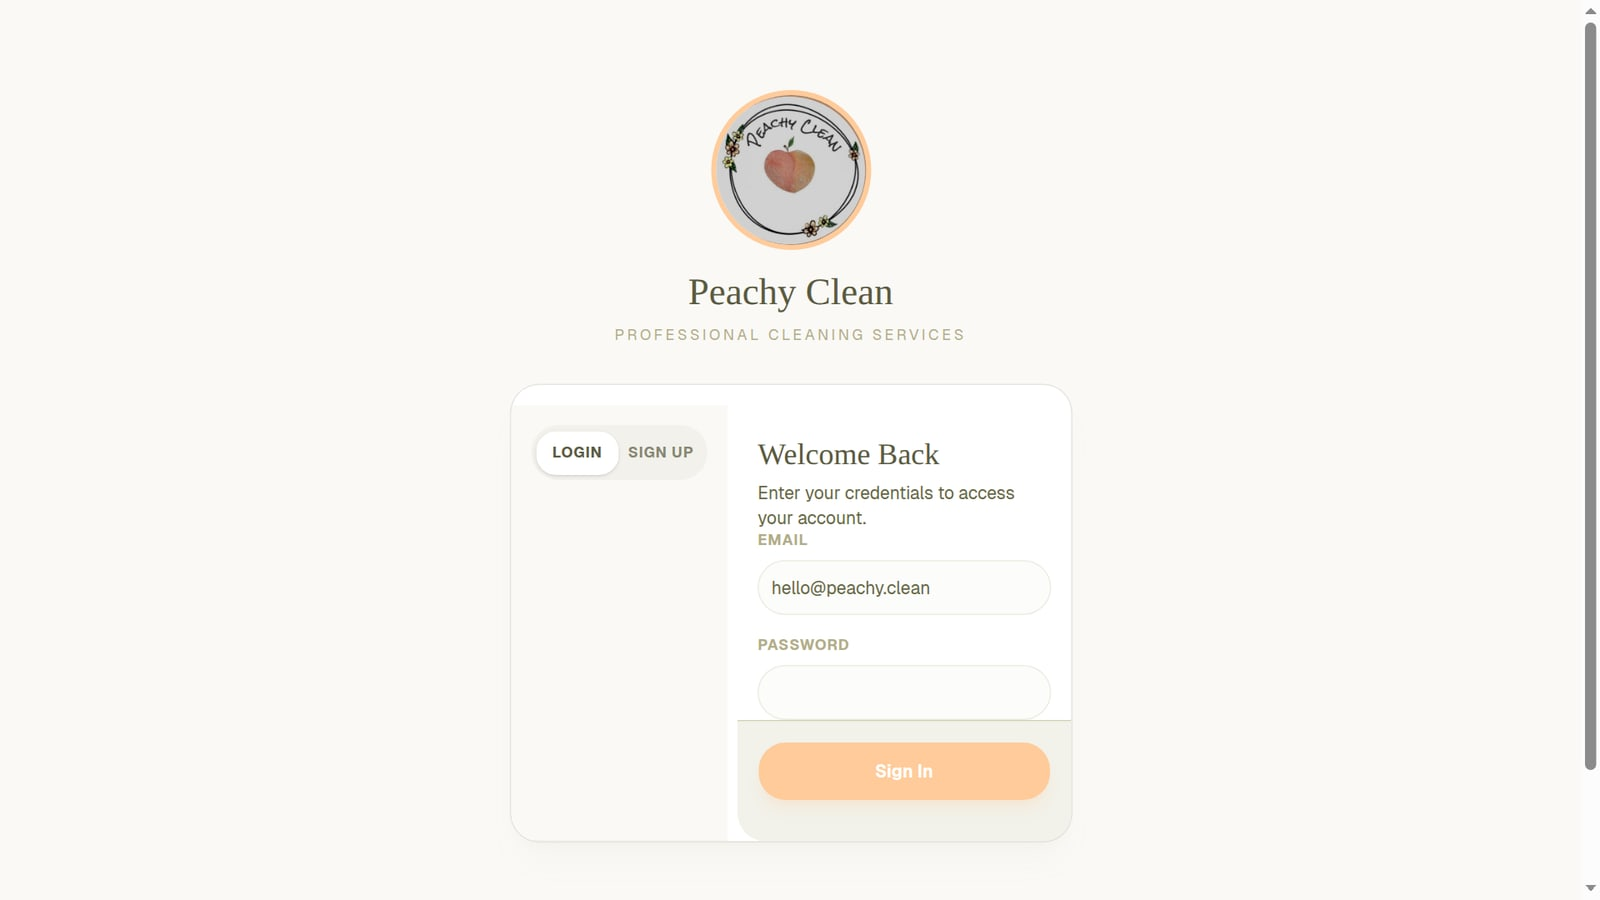
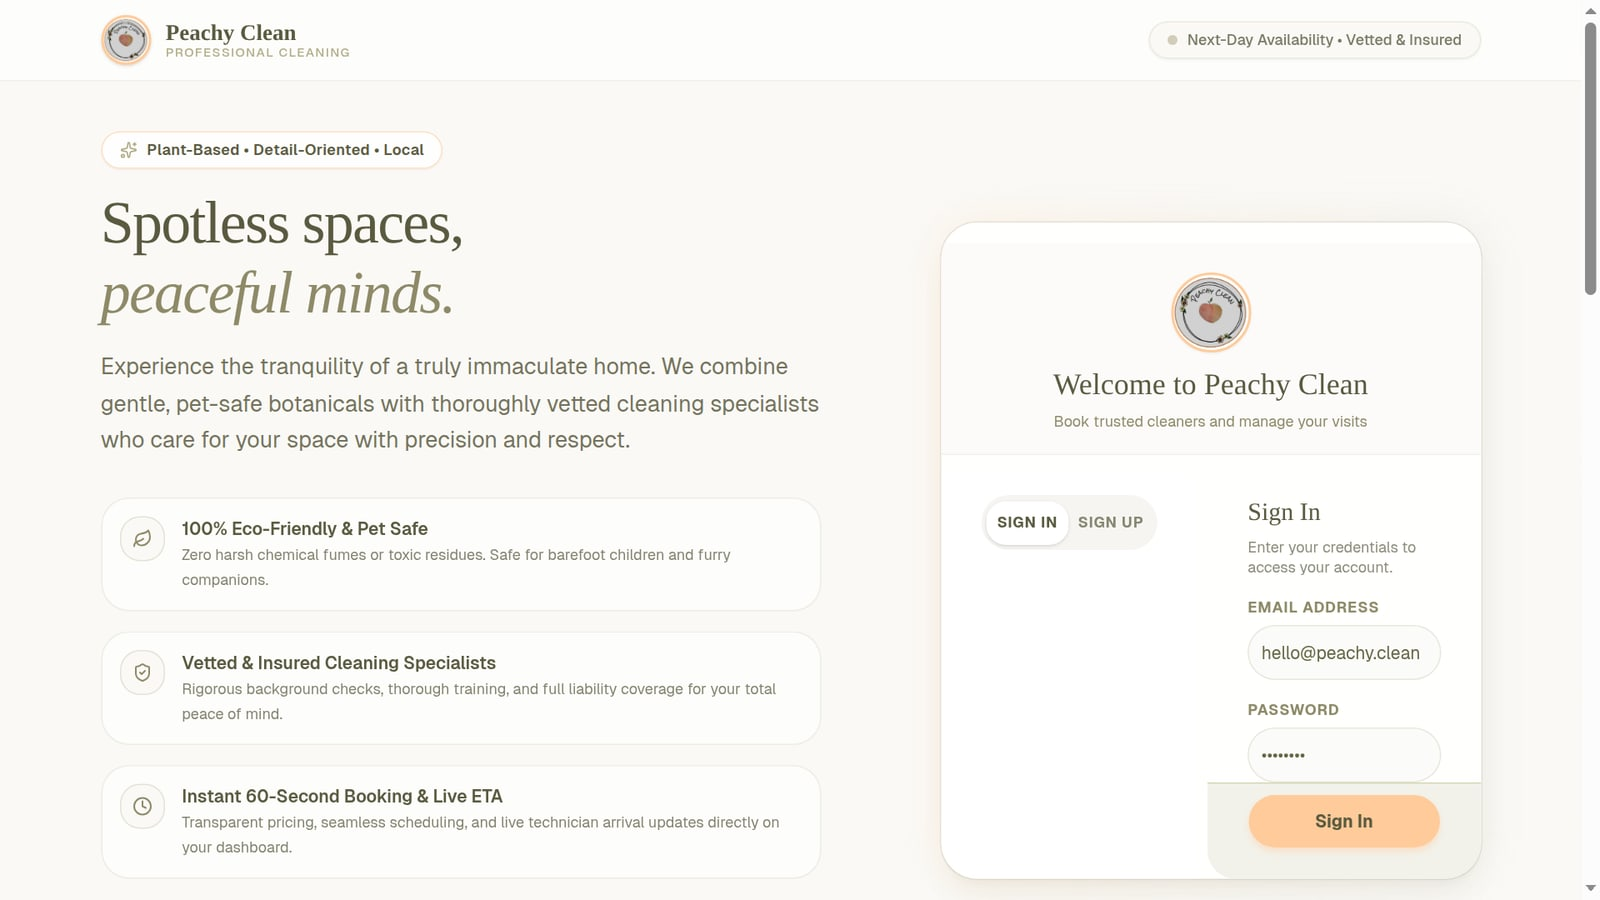
Refresh Peachy Clean card screenshot from the new marketing homepage

diff --git a/data/projects.ts b/data/projects.ts
@@ -235,7 +235,7 @@ export const projects: Project[] = [
     logo: "/brand/peachy-clean.png",
     screenshot: "/screenshots/peachy-clean.jpg",
     screenshotAlt:
-      "Peachy Clean sign-in screen: the peach badge logo, “Professional Cleaning Services,” and a warm cream login card",
+      "Peachy Clean homepage: “Spotless spaces, peaceful minds.” beside a welcome sign-in panel",
     theme: {
       lid: "#f7e2a0",
       deep: "#cfa548",
